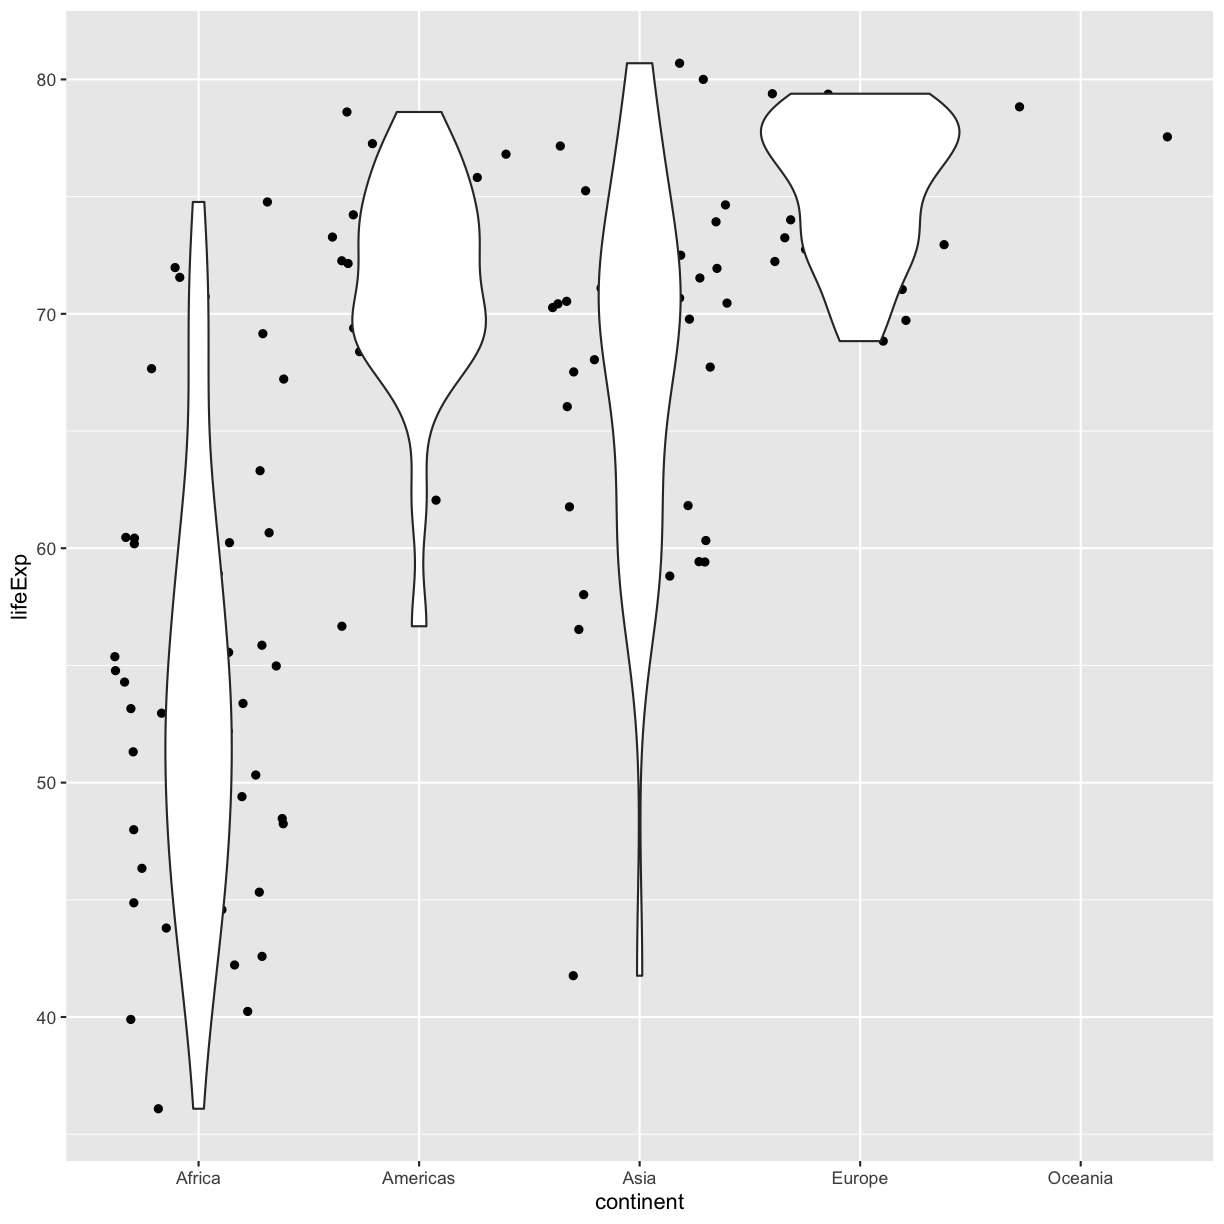
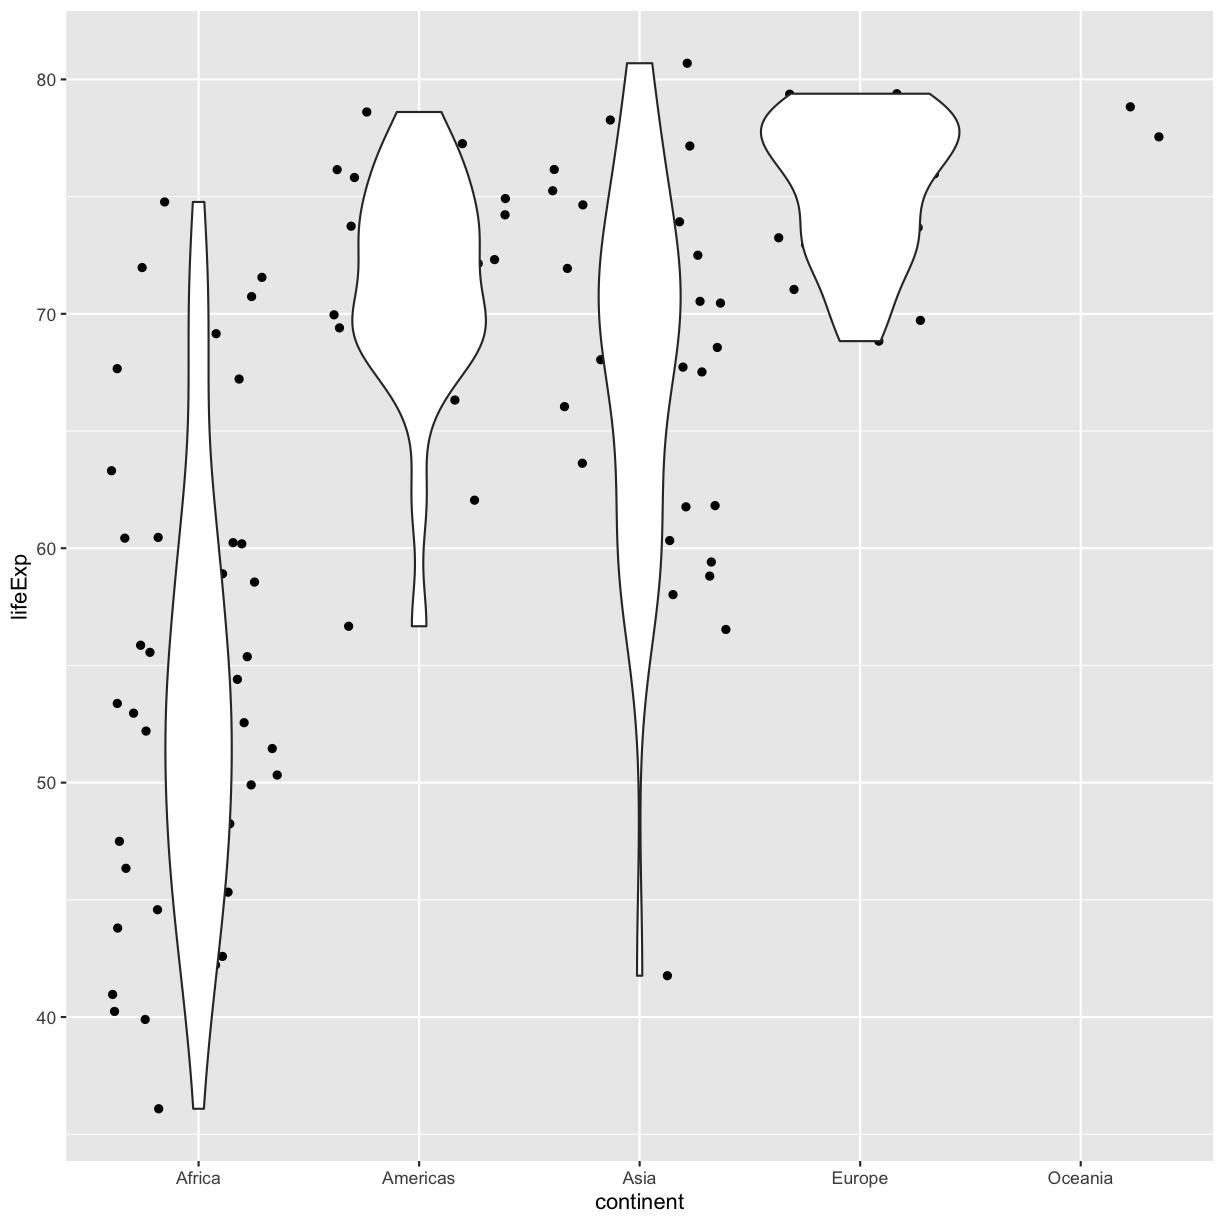
Set seed so jitter plots stop changing

diff --git a/_episodes/05-r-markdown.md b/_episodes/05-r-markdown.md
@@ -20,6 +20,7 @@ keypoints:
   - "R Markdown can render HTML, PDF, and Microsoft Word outputs."
 ---
 
+
 TODO: Complete Table of Contents and back to top links (for excercises)
 
 ### Contents
@@ -32,7 +33,7 @@ TODO: Complete Table of Contents and back to top links (for excercises)
     + [Text](#text)
 1. [Starting the report](#starting-the-report)
 1. [Formatting](#formatting)
-1. [Integrating it all together: Paired exercise](#integrating-it-all-together:-paired-exercise)
+1. [Integrating it all together: Paired exercise](#integrating-it-all-together-paired-exercise)
 
 
 
@@ -488,7 +489,7 @@ _[Back to top](#contents)_
 > ~~~
 > {: .language-r}
 > 
-> <img src="../fig/rmd-01-unnamed-chunk-10-1.png" title="plot of chunk unnamed-chunk-10" alt="plot of chunk unnamed-chunk-10" width="612" style="display: block; margin: auto;" />
+> <img src="../fig/rmd-01-unnamed-chunk-11-1.png" title="plot of chunk unnamed-chunk-11" alt="plot of chunk unnamed-chunk-11" width="612" style="display: block; margin: auto;" />
 {: .solution}
 
 3. It seems like there are 2 outliers - which countries are those?
@@ -523,7 +524,7 @@ _[Back to top](#contents)_
 > ~~~
 > {: .language-r}
 > 
-> <img src="../fig/rmd-01-unnamed-chunk-12-1.png" title="plot of chunk unnamed-chunk-12" alt="plot of chunk unnamed-chunk-12" width="612" style="display: block; margin: auto;" />
+> <img src="../fig/rmd-01-unnamed-chunk-13-1.png" title="plot of chunk unnamed-chunk-13" alt="plot of chunk unnamed-chunk-13" width="612" style="display: block; margin: auto;" />
 {: .solution}
 
 
@@ -542,7 +543,7 @@ _[Back to top](#contents)_
 > ~~~
 > {: .language-r}
 > 
-> <img src="../fig/rmd-01-unnamed-chunk-13-1.png" title="plot of chunk unnamed-chunk-13" alt="plot of chunk unnamed-chunk-13" width="612" style="display: block; margin: auto;" />
+> <img src="../fig/rmd-01-unnamed-chunk-14-1.png" title="plot of chunk unnamed-chunk-14" alt="plot of chunk unnamed-chunk-14" width="612" style="display: block; margin: auto;" />
 {: .solution}
 
 6. It's hard to see which country is which here. Can you change the scatter plot to a line plot so we can get a better sense of trends over time? HINT: This website has more information: https://www.r-graph-gallery.com/line-chart-several-groups-ggplot2.html
@@ -557,7 +558,7 @@ _[Back to top](#contents)_
 > ~~~
 > {: .language-r}
 > 
-> <img src="../fig/rmd-01-unnamed-chunk-14-1.png" title="plot of chunk unnamed-chunk-14" alt="plot of chunk unnamed-chunk-14" width="612" style="display: block; margin: auto;" />
+> <img src="../fig/rmd-01-unnamed-chunk-15-1.png" title="plot of chunk unnamed-chunk-15" alt="plot of chunk unnamed-chunk-15" width="612" style="display: block; margin: auto;" />
 {: .solution}
 
 #### Looking into life expectancy a bit more.
@@ -611,7 +612,7 @@ _[Back to top](#contents)_
 9. Make a boxplot for the life expectancies of the countries in Asia for each year (year is the x axis, life expectancy is the y axis). Also fix the x and y axis labels.
 
 > ## Solution
-> <img src="../fig/rmd-01-unnamed-chunk-17-1.png" title="plot of chunk unnamed-chunk-17" alt="plot of chunk unnamed-chunk-17" width="612" style="display: block; margin: auto;" />
+> <img src="../fig/rmd-01-unnamed-chunk-18-1.png" title="plot of chunk unnamed-chunk-18" alt="plot of chunk unnamed-chunk-18" width="612" style="display: block; margin: auto;" />
 {: .solution}
 
 ##### Bonus questions: come back to these if you have time at the end
@@ -652,7 +653,7 @@ _[Back to top](#contents)_
 11. Make a boxplot for the life expectancies of the countries over time for each continent. Try to fix the x and y axis labels and text too. Feel free to change the theme if you'd like.
 
 > ## Solution
-> <img src="../fig/rmd-01-unnamed-chunk-19-1.png" title="plot of chunk unnamed-chunk-19" alt="plot of chunk unnamed-chunk-19" width="612" style="display: block; margin: auto;" />
+> <img src="../fig/rmd-01-unnamed-chunk-20-1.png" title="plot of chunk unnamed-chunk-20" alt="plot of chunk unnamed-chunk-20" width="612" style="display: block; margin: auto;" />
 {: .solution}
 
 12. Which country has had the greatest increase in life expectancy from 1952 to 2007? **HINT:** You might want to use the `pivot_wider()` function to get your data in a format with columns for: country, 1952 life expectancy, 2007 life expectancy, and the difference between 2007 and 1992 life expectancy.
@@ -807,7 +808,7 @@ _[Back to top](#contents)_
 > ~~~
 > {: .language-r}
 > 
-> <img src="../fig/rmd-01-unnamed-chunk-25-1.png" title="plot of chunk unnamed-chunk-25" alt="plot of chunk unnamed-chunk-25" width="612" style="display: block; margin: auto;" />
+> <img src="../fig/rmd-01-unnamed-chunk-26-1.png" title="plot of chunk unnamed-chunk-26" alt="plot of chunk unnamed-chunk-26" width="612" style="display: block; margin: auto;" />
 {: .solution}
 
 2. Plot the expenditure by year (discrete x vs continuous y) using a scatter plot. Feel free to try to make the plot more legible if you want.
@@ -821,7 +822,7 @@ _[Back to top](#contents)_
 > ~~~
 > {: .language-r}
 > 
-> <img src="../fig/rmd-01-unnamed-chunk-26-1.png" title="plot of chunk unnamed-chunk-26" alt="plot of chunk unnamed-chunk-26" width="612" style="display: block; margin: auto;" />
+> <img src="../fig/rmd-01-unnamed-chunk-27-1.png" title="plot of chunk unnamed-chunk-27" alt="plot of chunk unnamed-chunk-27" width="612" style="display: block; margin: auto;" />
 {: .solution}
 
 3. Plot the expenditure by year (discrete x vs continuous y) using a violin plot or a boxplot.
@@ -835,7 +836,7 @@ _[Back to top](#contents)_
 > ~~~
 > {: .language-r}
 > 
-> <img src="../fig/rmd-01-unnamed-chunk-27-1.png" title="plot of chunk unnamed-chunk-27" alt="plot of chunk unnamed-chunk-27" width="612" style="display: block; margin: auto;" />
+> <img src="../fig/rmd-01-unnamed-chunk-28-1.png" title="plot of chunk unnamed-chunk-28" alt="plot of chunk unnamed-chunk-28" width="612" style="display: block; margin: auto;" />
 {: .solution}
 
 ### Combining the CO2 and R&D datasets
@@ -953,7 +954,7 @@ _[Back to top](#contents)_
 > ~~~
 > {: .language-r}
 > 
-> <img src="../fig/rmd-01-unnamed-chunk-32-1.png" title="plot of chunk unnamed-chunk-32" alt="plot of chunk unnamed-chunk-32" width="612" style="display: block; margin: auto;" />
+> <img src="../fig/rmd-01-unnamed-chunk-33-1.png" title="plot of chunk unnamed-chunk-33" alt="plot of chunk unnamed-chunk-33" width="612" style="display: block; margin: auto;" />
 {: .solution}
 
 
@@ -970,7 +971,7 @@ _[Back to top](#contents)_
 > ~~~
 > {: .language-r}
 > 
-> <img src="../fig/rmd-01-unnamed-chunk-33-1.png" title="plot of chunk unnamed-chunk-33" alt="plot of chunk unnamed-chunk-33" width="612" style="display: block; margin: auto;" />
+> <img src="../fig/rmd-01-unnamed-chunk-34-1.png" title="plot of chunk unnamed-chunk-34" alt="plot of chunk unnamed-chunk-34" width="612" style="display: block; margin: auto;" />
 {: .solution}
 
 3. Identify the countries that have 5 time points for both C02 emissions and R&D.
@@ -1017,7 +1018,7 @@ TODO: *check if r for data anlaysis teaches `%in%` and `c()`*
 > ~~~
 > {: .language-r}
 > 
-> <img src="../fig/rmd-01-unnamed-chunk-35-1.png" title="plot of chunk unnamed-chunk-35" alt="plot of chunk unnamed-chunk-35" width="612" style="display: block; margin: auto;" />
+> <img src="../fig/rmd-01-unnamed-chunk-36-1.png" title="plot of chunk unnamed-chunk-36" alt="plot of chunk unnamed-chunk-36" width="612" style="display: block; margin: auto;" />
 {: .solution}
 
 
